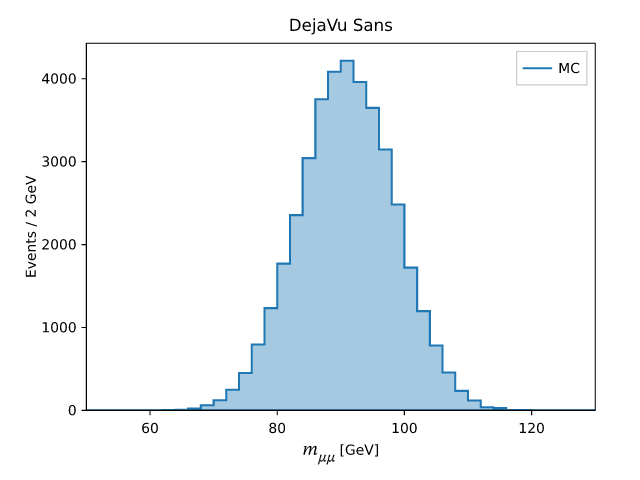
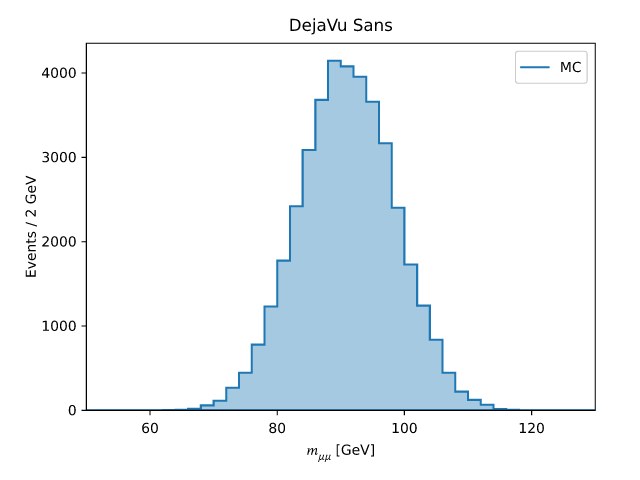
docs: generate the font-comparison images from the plot example
The two images in the plotting guide's Fonts section had no generator
in the repo, so they still showed math labels 4/3 too large (fixed in
#11). The plot example now renders them as `font-stix` and
`font-dejavu`: the MC template in the default STIX Two fonts and in the
DejaVu Sans look. The images are regenerated from it.

The example's header now lists all the figures it renders.

diff --git a/crates/oxiroot/examples/plot.rs b/crates/oxiroot/examples/plot.rs
@@ -6,7 +6,8 @@
 //! cargo run -p oxiroot --example plot --features plot
 //! ```
 //!
-//! It renders four figures, each as PNG, SVG, and PDF:
+//! It renders these figures into `oxiroot-plots` in the temporary directory,
+//! most as PNG, SVG, and PDF:
 //!
 //! 1. `mass` — a filled MC template with "data" points overlaid, a legend, and a
 //!    LaTeX axis label (the default matplotlib look). Also saved at 220 DPI.
@@ -16,6 +17,12 @@
 //!    a fitted Gaussian, and a ROOT-style fit stat box (with the `fit` feature).
 //! 3. `heatmap` — a 2-D TH2 as a viridis color mesh with a colorbar.
 //! 4. `ratio` — a main panel over a data/MC ratio panel sharing the x-axis.
+//! 5. `grid` — a 2×2 grid of panels sharing their axes, with a figure title.
+//! 6. `fit` — a fitted Gaussian with a ROOT-style stat box (the `fit` feature).
+//! 7. `font-stix` and `font-dejavu` — the MC template in the default STIX Two
+//!    fonts and in the matplotlib DejaVu Sans look.
+//!
+//! The plotting guide's images are these files, prefixed with `plot-`.
 
 #[cfg(not(feature = "plot"))]
 fn main() {
@@ -25,7 +32,8 @@ fn main() {
 #[cfg(feature = "plot")]
 fn main() -> oxiroot::Result<()> {
     use oxiroot::plot::{
-        ratio_subplots, Axes, Color, ErrorbarOpts, Hist2dOpts, HistOpts, HistType, SaveOpts, Style,
+        ratio_subplots, Axes, Color, ErrorbarOpts, FontSet, Hist2dOpts, HistOpts, HistType,
+        SaveOpts, Style,
     };
     use oxiroot::prelude::*;
 
@@ -233,6 +241,27 @@ fn main() -> oxiroot::Result<()> {
         ax.ylabel("Events / 2 GeV");
         ax.legend();
         save_both(&ax, &out, "fit")?;
+    }
+
+    // --- 7. The MC template in each font set, for the guide's Fonts section. ---
+    for (stem, title, fonts) in [
+        ("font-stix", "STIX Two (default)", FontSet::stix()),
+        ("font-dejavu", "DejaVu Sans", FontSet::dejavu()),
+    ] {
+        let mut ax = Axes::new();
+        ax.fonts(fonts);
+        ax.hist_with(
+            &mc,
+            HistOpts::new()
+                .histtype(HistType::Fill)
+                .fill_color(Color::hex("#1f77b4").with_alpha(0.4))
+                .label("MC"),
+        );
+        ax.xlabel("$m_{\\mu\\mu}$ [GeV]");
+        ax.ylabel("Events / 2 GeV");
+        ax.title(title);
+        ax.legend();
+        save_both(&ax, &out, stem)?;
     }
 
     Ok(())
